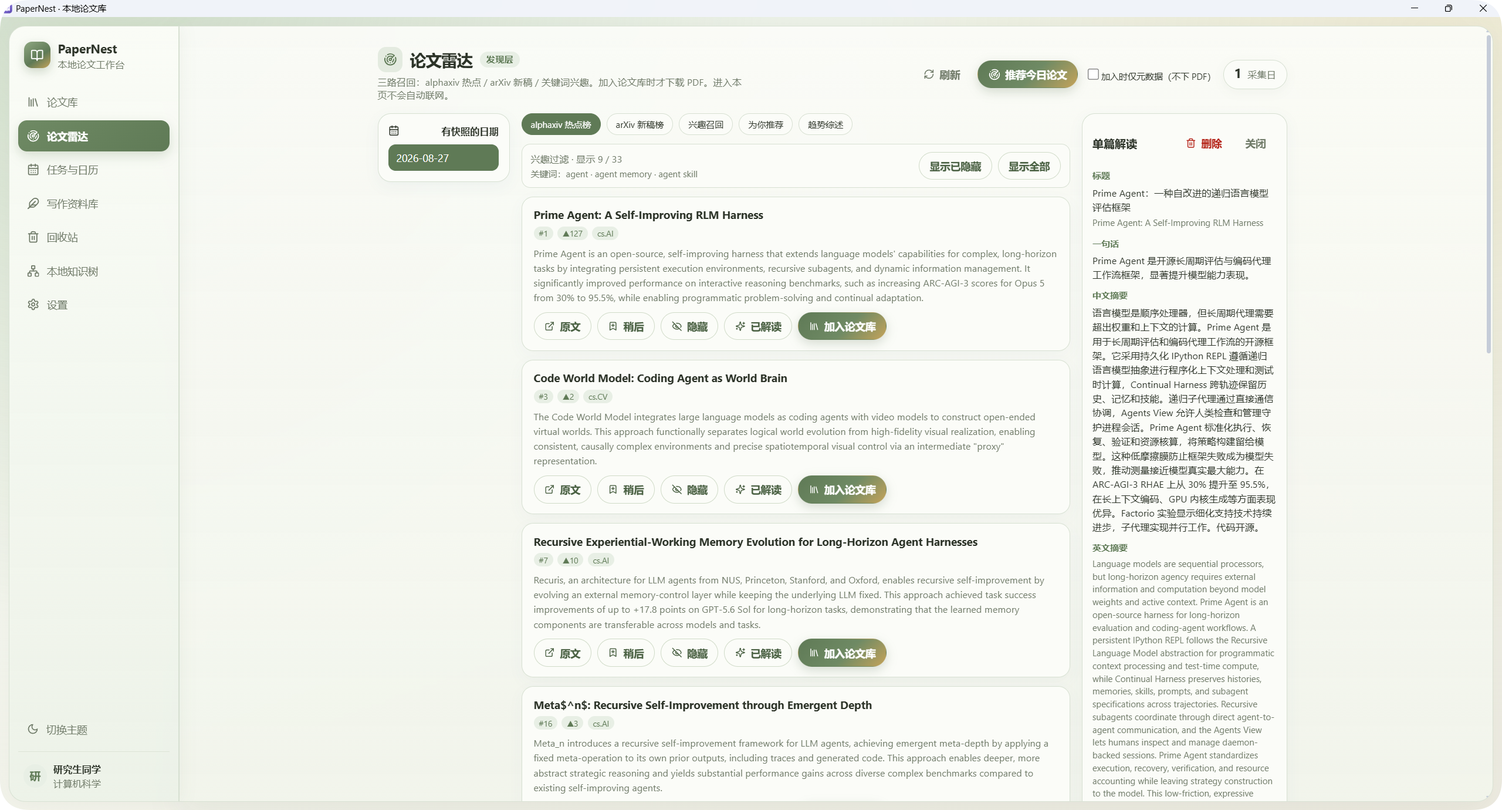
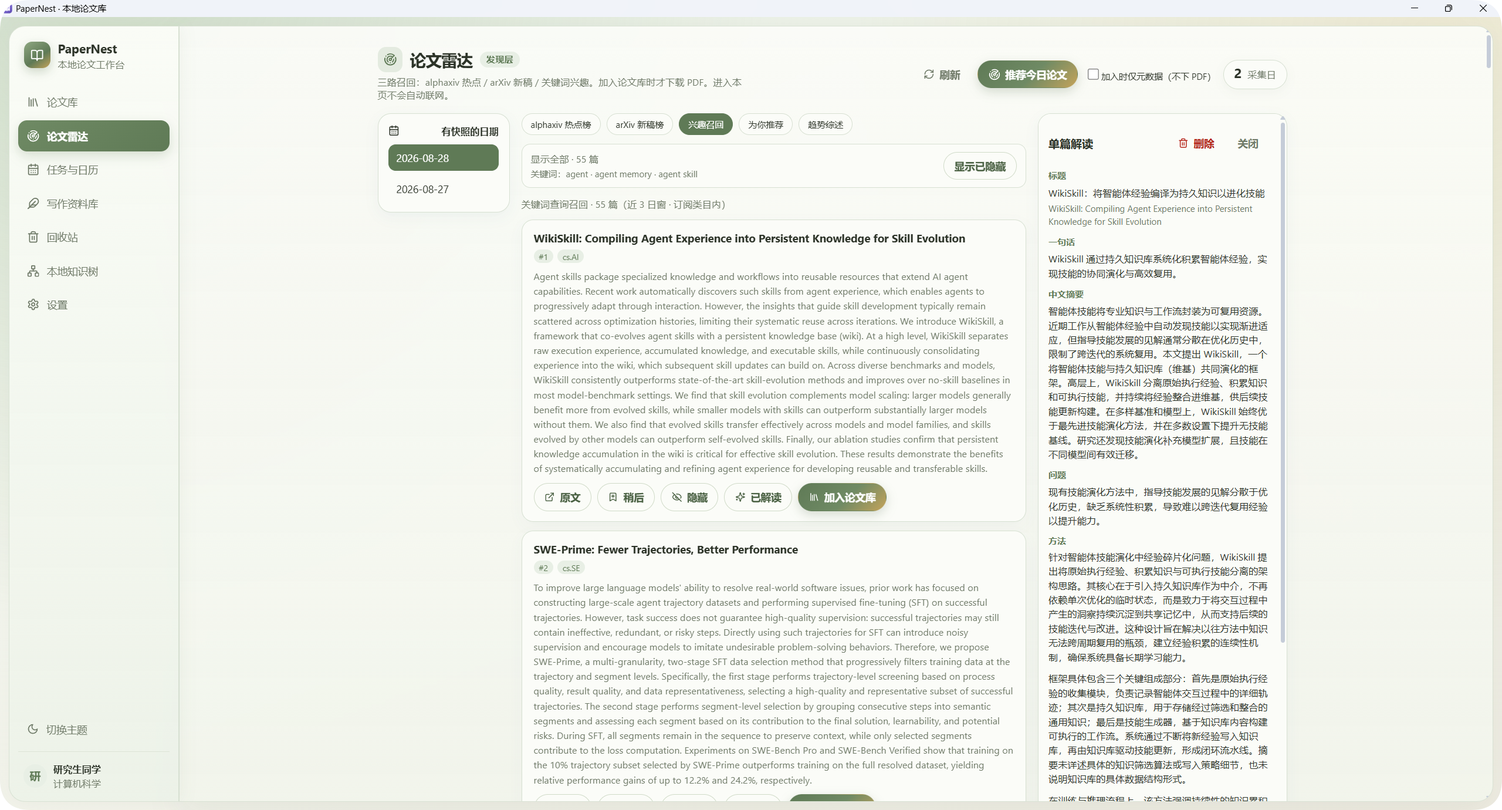
发布 0.2.12：论文雷达解读增强、文档与截图更新。
- 单篇解读：方法 3 段详析、侧栏 sticky、并发解读与缓存管理。

- 文档去除防御性表述；README 同步论文雷达截图（009-1～009-5）。

diff --git a/src/components/LlmSettingsForm.tsx b/src/components/LlmSettingsForm.tsx
@@ -81,7 +81,7 @@ export function LlmSettingsForm() {
       const saved = saveTranslationEndpoint(ltEndpoint);
       setLtEndpoint(saved);
       setLtConfigured(true);
-      setNotice("LibreTranslate 地址已保存。收录时优先用 LLM；仅当 LLM 不可用时才走本地翻译。");
+      setNotice("LibreTranslate 地址已保存。阅读台收录可走本地翻译。");
     } catch (error) { setNotice(error instanceof Error ? error.message : String(error)); }
   };
   const clearLt = () => {
@@ -91,23 +91,22 @@ export function LlmSettingsForm() {
     setNotice("已清除 LibreTranslate 配置。");
   };
 
-  return <section className="settings-form llm-settings"><h2><Sparkles size={19} />LLM 自动整理</h2><p className="settings-description">支持 OpenAI 兼容的 Chat Completions 接口。导入新 PDF 时，应用先做本地文本提取，再将论文内容和最多 3 张候选框架图页发送到你配置的模型。阅读台收录术语/写作句时，有 API Key 则优先用 LLM 做学术翻译。</p>
+  return <section className="settings-form llm-settings"><h2><Sparkles size={19} />LLM 自动整理</h2><p className="settings-description">支持 OpenAI 兼容的 Chat Completions 接口。导入新 PDF 时，应用先做本地文本提取，再将论文内容和最多 3 张候选框架图页发送到你配置的模型。阅读台收录术语/写作句时，配置 API Key 后走 LLM 学术翻译。</p>
     <label>API 基础地址<input value={value.baseUrl} onChange={e => setValue(v => v && { ...v, baseUrl: e.target.value })} placeholder="https://api.openai.com/v1" /></label>
     <label>模型名称<input value={value.model} onChange={e => setValue(v => v && { ...v, model: e.target.value })} placeholder="例如 gpt-4.1-mini / 自建模型名" /></label>
     <label>Embeddings 模型（可选；云端 API 名或本地 `local:bge-small-en-v1.5`）<input value={value.embeddingModel ?? ""} onChange={e => setValue(v => v && { ...v, embeddingModel: e.target.value })} placeholder="云端如 text-embedding-3-small；本地请点下方安装按钮" /></label>
-    <label><KeyRound size={15} />API Key {value.apiKeySaved ? <small className="key-saved">已保存（留空则不覆盖）</small> : <small>未保存</small>}<input type="password" autoComplete="off" value={apiKey} onChange={e => setApiKey(e.target.value)} placeholder="仅保存在 Windows Credential Manager" /></label>
-    <label className="checkbox-setting"><input type="checkbox" checked={value.autoAnalyzeOnImport} onChange={e => setValue(v => v && { ...v, autoAnalyzeOnImport: e.target.checked })} />导入 PDF / 雷达入库后自动用 LLM 整理（雷达路径仅填空，不覆盖已有中文摘要）</label>
-    <label className="checkbox-setting"><input type="checkbox" checked={value.autoClassifyOnImport} onChange={e => setValue(v => v && { ...v, autoClassifyOnImport: e.target.checked })} />导入 / 雷达入库时自动分类（主领域与子领域，仅使用设置页现有词表）</label>
+    <label><KeyRound size={15} />API Key {value.apiKeySaved ? <small className="key-saved">已保存（留空则保留已存密钥）</small> : <small>未保存</small>}<input type="password" autoComplete="off" value={apiKey} onChange={e => setApiKey(e.target.value)} placeholder="仅保存在 Windows Credential Manager" /></label>
+    <label className="checkbox-setting"><input type="checkbox" checked={value.autoAnalyzeOnImport} onChange={e => setValue(v => v && { ...v, autoAnalyzeOnImport: e.target.checked })} />导入 PDF / 雷达入库后自动用 LLM 整理元数据与术语</label>
+    <label className="checkbox-setting"><input type="checkbox" checked={value.autoClassifyOnImport} onChange={e => setValue(v => v && { ...v, autoClassifyOnImport: e.target.checked })} />导入 / 雷达入库时按设置页词表自动分类（主领域与子领域）</label>
     <label>分类严格度<select value={value.taxonomyStrictness} onChange={e => setValue(v => v && { ...v, taxonomyStrictness: e.target.value as LlmSettings["taxonomyStrictness"] })}><option value="strict">严格（仅核心标签，最多 3 个）</option><option value="standard">标准（核心+相关，最多 4 个）</option><option value="relaxed">宽松（最多 6 个）</option></select></label>
     <label className="checkbox-setting"><input type="checkbox" checked={value.visionEnabled} onChange={e => setValue(v => v && { ...v, visionEnabled: e.target.checked })} />发送候选方法图页缩略图（模型需支持图片输入）</label>
     <div className="settings-actions"><button className="primary" disabled={busy} onClick={save}>{busy ? <LoaderCircle className="spin" size={16} /> : <Save size={16} />}保存 LLM 设置</button><button className="secondary" disabled={busy} onClick={test}><TestTube2 size={16} />测试连接</button></div>
-    <div className="info-card"><KeyRound size={18} /><div><strong>密钥不进入资料库</strong><p>SQLite、备份、诊断日志和前端 JavaScript 均不会保存或读取 API Key。关闭“自动整理”后，导入不发起网络请求。</p></div></div>
+    <div className="info-card"><KeyRound size={18} /><div><strong>密钥保存在 Credential Manager</strong><p>API Key 写入 Windows Credential Manager，SQLite、备份与前端代码均不保存密钥。开启「自动整理」后，导入会调用 LLM。</p></div></div>
 
     <h2 style={{ marginTop: 28 }}><HardDrive size={19} style={{ verticalAlign: "-3px", marginRight: 6 }} />本地向量模型（论文雷达）</h2>
     <p className="settings-description">
       <a href="https://huggingface.co/allenai/scibert_scivocab_uncased" target="_blank" rel="noreferrer">allenai/scibert_scivocab_uncased</a>
-      {" "}是科学文本语言模型（MLM），不能当作 OpenAI Embeddings API 的模型名，也不适合直接做兴趣短语语义匹配。
-      本地改用学术友好的句子向量模型{" "}
+      SciBERT 是科学文本语言模型（MLM）。论文雷达本地语义重排推荐句子向量模型{" "}
       <a href={localEmbed?.hfUrl || "https://huggingface.co/BAAI/bge-small-en-v1.5"} target="_blank" rel="noreferrer">{localEmbed?.displayName || "BAAI/bge-small-en-v1.5"}</a>
       （约 130MB，&lt;2GB）。首次点击将下载到软件目录 <code>models/bge-small-en-v1.5</code>。论文对论文检索可再考虑{" "}
       <a href="https://huggingface.co/sentence-transformers/allenai-specter" target="_blank" rel="noreferrer">SPECTER</a>
@@ -117,7 +116,7 @@ export function LlmSettingsForm() {
     <div className="info-card">
       <HardDrive size={18} />
       <div>
-        <strong>{usingLocal ? "当前：本地向量已启用" : localEmbed?.installed ? "模型文件已在本地，尚未写入 Embeddings 字段" : "尚未安装本地向量模型"}</strong>
+        <strong>{usingLocal ? "当前：本地向量已启用" : localEmbed?.installed ? "模型文件已在本地，待写入 Embeddings 字段" : "待安装本地向量模型"}</strong>
         <p>
           {localEmbed
             ? `目录：${localEmbed.cacheDir || "（安装后显示）"} · ${localEmbed.approxSizeHint}${localEmbed.installed ? " · 已检测到 ONNX" : ""}`
@@ -132,8 +131,8 @@ export function LlmSettingsForm() {
       </button>
     </div>
 
-    <h2 style={{ marginTop: 28 }}>LibreTranslate（可选弱回退）</h2>
-    <p className="settings-description">学术翻译默认走上方 LLM。本地 LibreTranslate 仅在未配置/调用 LLM 失败时使用。请先运行 <code>scripts/start-libretranslate.cmd</code>，地址可填 <code>http://127.0.0.1:5000</code>（会自动补全 <code>/translate</code>）。</p>
+    <h2 style={{ marginTop: 28 }}>LibreTranslate（可选本地翻译）</h2>
+    <p className="settings-description">配置本地 LibreTranslate 后，阅读台收录与摘要翻译可离线使用。请先运行 <code>scripts/start-libretranslate.cmd</code>，地址可填 <code>http://127.0.0.1:5000</code>（会自动补全 <code>/translate</code>）。</p>
     <label>服务地址<input value={ltEndpoint} onChange={e => setLtEndpoint(e.target.value)} placeholder={DEFAULT_LIBRETRANSLATE_ENDPOINT} /></label>
     <p className="settings-description">{ltConfigured ? `当前已配置：${getTranslationEndpoint()}` : "尚未配置本地翻译地址。"}</p>
     <div className="settings-actions"><button type="button" className="secondary" onClick={saveLt}><Save size={16} />保存翻译地址</button><button type="button" className="ghost" onClick={clearLt}>清除</button></div>

diff --git a/src/components/SettingsView.tsx b/src/components/SettingsView.tsx
@@ -25,8 +25,8 @@ export function SettingsView() {
     {section === "radar" && <RadarSettingsForm />}
     {section === "customFields" && <CustomFieldsSettingsForm />}
     {section === "taxonomy" && <TaxonomyManager categories={data.categories} tags={data.tags} saveCategory={saveCategory} saveTag={saveTag} mergeTaxonomy={mergeTaxonomy} />}
-    {section === "data" && <><h2><Database size={19} />本地资料库</h2><p className="settings-description">数据库、PDF、框架图和批注均保存在以下目录。首次启动默认放在软件安装目录下的 PaperNestLibrary；若你已迁移过位置，则使用最新设定。</p><div className="path-box"><HardDrive size={18} /><code>{data.libraryPath}</code></div>{data.libraryNotice && <p className="inline-notice" role="status">{data.libraryNotice}</p>}<div className="relocation-note"><strong>资料库位置</strong><p>选择一个目标文件夹后，应用会完整复制资料库并在下次启动切换；旧副本会保留。</p><button className="secondary" onClick={async () => { if (!isTauri()) { setNotice("浏览器预览模式不能迁移资料库"); return; } if (!confirm("将复制当前资料库到所选文件夹，并在下次启动切换。旧副本不会删除，继续吗？")) return; try { const next = await backend.chooseLibraryLocation(); if (next) setNotice("资料库已复制到：" + next + "。请关闭并重新打开应用以切换。"); } catch (error) { setNotice(`迁移资料库失败：${error instanceof Error ? error.message : String(error)}`); } }}>选择新的资料库位置</button></div><div className="settings-actions"><button className="primary" onClick={async () => { try { const path = await backend.backup(); setNotice(path ? `备份已创建：${path}` : "浏览器预览模式不创建 ZIP 备份"); } catch (error) { setNotice(`创建备份失败：${error instanceof Error ? error.message : String(error)}`); } }}><Archive size={16} />创建完整备份</button><button className="secondary" onClick={async () => { try { if (await backend.restore()) { await refresh(); setNotice("备份恢复完成"); } } catch (error) { setNotice(`恢复备份失败：${error instanceof Error ? error.message : String(error)}`); } }}><RotateCcw size={16} />从备份恢复</button></div><div className="info-card"><Save size={18} /><div><strong>自动保存已开启</strong><p>论文字段和批注会立即写入 SQLite；原始 PDF 永不被覆写。</p></div></div></>}
-    {section === "privacy" && <><h2><ShieldCheck size={19} />隐私与安全</h2><div className="privacy-grid"><article><Laptop /><strong>单机单用户</strong><p>不需要账号，不连接云同步服务。</p></article><article><LockKeyhole /><strong>最小文件权限</strong><p>桌面端只访问受管资料目录和你明确选择的文件。</p></article><article><Download /><strong>默认离线</strong><p>关闭在线元数据与论文雷达时，应用不会向外网发起请求；雷达仅在你点击「推荐今日论文」时采集元数据。</p></article></div><p className="warning-note">V1 不提供数据库或备份加密。Windows 用户账户权限是默认访问边界。</p></>}
+    {section === "data" && <><h2><Database size={19} />本地资料库</h2><p className="settings-description">数据库、PDF、框架图和批注均保存在以下目录。首次启动默认放在软件安装目录下的 PaperNestLibrary；若你已迁移过位置，则使用最新设定。</p><div className="path-box"><HardDrive size={18} /><code>{data.libraryPath}</code></div>{data.libraryNotice && <p className="inline-notice" role="status">{data.libraryNotice}</p>}<div className="relocation-note"><strong>资料库位置</strong><p>选择一个目标文件夹后，应用会完整复制资料库并在下次启动切换；旧副本会保留。</p><button className="secondary" onClick={async () => { if (!isTauri()) { setNotice("浏览器预览模式不能迁移资料库"); return; } if (!confirm("将复制当前资料库到所选文件夹，并在下次启动切换。旧副本保留，继续吗？")) return; try { const next = await backend.chooseLibraryLocation(); if (next) setNotice("资料库已复制到：" + next + "。请关闭并重新打开应用以切换。"); } catch (error) { setNotice(`迁移资料库失败：${error instanceof Error ? error.message : String(error)}`); } }}>选择新的资料库位置</button></div><div className="settings-actions"><button className="primary" onClick={async () => { try { const path = await backend.backup(); setNotice(path ? `备份已创建：${path}` : "浏览器预览模式不创建 ZIP 备份"); } catch (error) { setNotice(`创建备份失败：${error instanceof Error ? error.message : String(error)}`); } }}><Archive size={16} />创建完整备份</button><button className="secondary" onClick={async () => { try { if (await backend.restore()) { await refresh(); setNotice("备份恢复完成"); } } catch (error) { setNotice(`恢复备份失败：${error instanceof Error ? error.message : String(error)}`); } }}><RotateCcw size={16} />从备份恢复</button></div><div className="info-card"><Save size={18} /><div><strong>自动保存已开启</strong><p>论文字段和批注会立即写入 SQLite；原始 PDF 永不被覆写。</p></div></div></>}
+    {section === "privacy" && <><h2><ShieldCheck size={19} />隐私与安全</h2><div className="privacy-grid"><article><Laptop /><strong>单机单用户</strong><p>纯本地使用，数据留在本机。</p></article><article><LockKeyhole /><strong>最小文件权限</strong><p>桌面端只访问受管资料目录和你明确选择的文件。</p></article><article><Download /><strong>按需联网</strong><p>在线元数据与论文雷达默认关闭；开启后，Crossref 在你手动查询时联网，雷达在你点击「推荐今日论文」时采集元数据。</p></article></div><p className="warning-note">V1 不提供数据库或备份加密。Windows 用户账户权限是默认访问边界。</p></>}
     {notice && <div className="settings-notice">{notice}</div>}
   </section></div></main>;
 }
@@ -35,7 +35,7 @@ function ProfileForm({ profile, onSave }: { profile: Profile; onSave(value: Prof
   const [value, setValue] = useState(profile);
   return <form className="settings-form" onSubmit={e => { e.preventDefault(); void onSave(value); }}>
     <h2><UserRound size={19} />个人资料</h2>
-    <p className="settings-description">仅用于本机界面展示，不会上传。</p>
+    <p className="settings-description">保存在本机，用于界面展示个人偏好。</p>
     <label>显示名<input value={value.displayName} onChange={e => setValue(v => ({ ...v, displayName: e.target.value }))} /></label>
     <label>研究方向<input value={value.researchField} onChange={e => setValue(v => ({ ...v, researchField: e.target.value }))} placeholder="例如：计算机视觉 / 推荐系统" /></label>
     <label><span className="settings-label-row"><Palette size={15} />主题</span><select value={appearanceFromProfile(value)} onChange={e => setValue(v => applyAppearance(v, e.target.value as AppearanceId))}>{APPEARANCE_OPTIONS.map(option => <option key={option.id} value={option.id}>{option.label}</option>)}</select></label>

diff --git a/src/components/RadarView.tsx b/src/components/RadarView.tsx
@@ -227,7 +227,7 @@ export function RadarView({ onImported }: { onImported?(paperId: string): void }
       return;
     }
     if (exclusiveBusy) {
-      flashNotice("采集/入库/综述进行中，请稍后再发起新解读。已缓存解读仍可点开。");
+      flashNotice("采集/入库/综述进行中，请稍后再发起新解读。");
       return;
     }
     if (radarExplaining[card.arxivId]) {
@@ -267,7 +267,7 @@ export function RadarView({ onImported }: { onImported?(paperId: string): void }
         next.delete(id);
         return next;
       });
-      flashNotice("已删除解读缓存，可重新点「解读」生成。");
+      flashNotice("已删除解读。");
     } catch (error) {
       flashNotice(error instanceof Error ? error.message : String(error));
     }
@@ -387,7 +387,7 @@ export function RadarView({ onImported }: { onImported?(paperId: string): void }
   }
 
   if (!settings.enabled) {
-    return <main className="content-page radar-page"><header className="page-heading"><div className="page-title-block"><div className="page-title-row"><span className="page-title-icon"><RadarIcon size={18} /></span><h1>论文雷达</h1><span className="page-kicker">发现层</span></div><p>尚未启用。请到「设置 → 论文雷达」打开开关后再回来点击推荐。</p></div></header></main>;
+    return <main className="content-page radar-page"><header className="page-heading"><div className="page-title-block"><div className="page-title-row"><span className="page-title-icon"><RadarIcon size={18} /></span><h1>论文雷达</h1><span className="page-kicker">发现层</span></div><p>请到「设置 → 论文雷达」启用后，点击「推荐今日论文」开始采集。</p></div></header></main>;
   }
 
   return (
@@ -395,10 +395,10 @@ export function RadarView({ onImported }: { onImported?(paperId: string): void }
       <header className="page-heading">
         <div className="page-title-block">
           <div className="page-title-row"><span className="page-title-icon"><RadarIcon size={18} /></span><h1>论文雷达</h1><span className="page-kicker">发现层</span></div>
-          <p>三路召回：alphaxiv 热点 / arXiv 新稿 / 关键词兴趣。加入论文库时才下载 PDF。进入本页不会自动联网。</p>
+    <p>三路召回：alphaxiv 热点 / arXiv 新稿 / 关键词兴趣。加入论文库时下载 PDF。本页默认只读本地快照，点击「推荐今日论文」才联网采集。</p>
         </div>
         <div className="page-heading-actions">
-          <button type="button" className="ghost" disabled={refreshing || !!exclusiveBusy} onClick={() => void refreshRadarView()} title="重新加载当前榜单（不联网采集）">
+          <button type="button" className="ghost" disabled={refreshing || !!exclusiveBusy} onClick={() => void refreshRadarView()} title="重新加载当前榜单（本地快照）">
             <RefreshCw size={15} className={refreshing ? "spin" : undefined} />刷新
           </button>
           <button type="button" className="primary" disabled={!!exclusiveBusy} onClick={() => void fetchToday()}>
@@ -407,7 +407,7 @@ export function RadarView({ onImported }: { onImported?(paperId: string): void }
           </button>
           <label className="checkbox-setting radar-import-option">
             <input type="checkbox" checked={metadataOnly} onChange={event => setMetadataOnly(event.target.checked)} />
-            加入时仅元数据（不下 PDF）
+            加入时只入库元数据
           </label>
           <div className="stat-card"><strong>{dates.length}</strong><small>采集日</small></div>
         </div>
@@ -542,7 +542,7 @@ export function RadarView({ onImported }: { onImported?(paperId: string): void }
             <header>
               <h3>单篇解读</h3>
               <div className="radar-explain-actions">
-                <button type="button" className="ghost danger" onClick={() => void deleteExplanation()} title="删除本地解读缓存">
+                <button type="button" className="ghost danger" onClick={() => void deleteExplanation()} title="删除解读">
                   <Trash2 size={14} />删除
                 </button>
                 <button type="button" className="ghost" onClick={() => setExplain(undefined)}>关闭</button>
@@ -557,12 +557,17 @@ export function RadarView({ onImported }: { onImported?(paperId: string): void }
             )}
             {explain.summaryZh && <p><strong>一句话</strong>{explain.summaryZh}</p>}
             {explain.abstractZh && <p><strong>中文摘要</strong>{explain.abstractZh}</p>}
-            {explain.abstractEn && <p><strong>英文摘要</strong><span className="radar-explain-en">{explain.abstractEn}</span></p>}
             <p><strong>问题</strong>{explain.problem}</p>
-            <p><strong>方法</strong>{explain.method}</p>
+            <div className="radar-explain-method">
+              <strong>方法</strong>
+              {explain.method
+                .split(/\n{2,}/)
+                .map(part => part.trim())
+                .filter(Boolean)
+                .map((para, index) => <p key={index}>{para}</p>)}
+            </div>
             <p><strong>结论</strong>{explain.finding}</p>
             <p><strong>亮点</strong>{explain.highlight}</p>
-            <p className="radar-explain-hint">已缓存。删除后可重新解读；入库时可再做 LLM 整理补术语与分类。</p>
           </aside>
         )}
       </div>

diff --git a/src/components/KnowledgeTree.tsx b/src/components/KnowledgeTree.tsx
@@ -18,5 +18,5 @@ export function KnowledgeTree({ onOpenPaper }: { onOpenPaper(paper: Paper): void
     const edges: Edge[] = []; for (let from = 0; from < papers.length; from++) for (let to = from + 1; to < papers.length; to++) { const left = papers[from]; const right = papers[to]; const sharedTags = left.tagIds.filter(id => right.tagIds.includes(id)).length; const score = Math.min(.55, sharedTags * .24) + (left.categoryId && left.categoryId === right.categoryId ? .14 : 0) + overlap(wordSets[from], wordSets[to]) * .42; if (score >= threshold) edges.push({ from, to, score }); }
     return { nodes, edges: edges.sort((a, b) => b.score - a.score).slice(0, 700) };
   }, [data, query, threshold]);
-  return <main className="knowledge-page"><header className="page-heading"><div><div className="eyebrow"><Network size={14} />LOCAL KNOWLEDGE TREE</div><h1>本地论文知识树</h1><p>根据已入库论文的标签、主领域和标题/摘要文本相似度建立关系；不联网，也不代表引用关系。</p></div></header><div className="knowledge-tools"><label><Search size={15} /><input value={query} onChange={event => setQuery(event.target.value)} placeholder="筛选论文" /></label><label>关系阈值 <input type="range" min="0.12" max="0.62" step="0.02" value={threshold} onChange={event => setThreshold(Number(event.target.value))} /><strong>{Math.round(threshold * 100)}%</strong></label><small>显示 {graph.nodes.length} 篇论文 / {graph.edges.length} 条关联（上限 300 篇、700 条）</small></div><section className="knowledge-canvas"><svg viewBox="0 0 1000 650" role="img" aria-label="本地论文知识关系图">{graph.edges.map((edge, index) => <line key={index} x1={graph.nodes[edge.from].x} y1={graph.nodes[edge.from].y} x2={graph.nodes[edge.to].x} y2={graph.nodes[edge.to].y} style={{ strokeWidth: 1 + edge.score * 3, opacity: .16 + edge.score * .55 }} />)}{graph.nodes.map(node => <g className="knowledge-node" key={node.paper.id} transform={"translate(" + node.x + " " + node.y + ")"} onClick={() => onOpenPaper(node.paper)}><circle r="19" fill={node.color} /><text y="37">{(node.paper.titleZh || node.paper.titleEn).slice(0, 22)}</text><title>{node.paper.titleZh || node.paper.titleEn}</title></g>)}</svg>{!graph.nodes.length && <div className="knowledge-empty">尚无可显示的论文。导入论文并添加领域或标签后，这里会自动形成关联。</div>}</section></main>;
+  return <main className="knowledge-page"><header className="page-heading"><div><div className="eyebrow"><Network size={14} />LOCAL KNOWLEDGE TREE</div><h1>本地论文知识树</h1><p>根据已入库论文的标签、主领域和标题/摘要文本相似度建立本地关联；边表示主题相近，不代表引用关系。</p></div></header><div className="knowledge-tools"><label><Search size={15} /><input value={query} onChange={event => setQuery(event.target.value)} placeholder="筛选论文" /></label><label>关系阈值 <input type="range" min="0.12" max="0.62" step="0.02" value={threshold} onChange={event => setThreshold(Number(event.target.value))} /><strong>{Math.round(threshold * 100)}%</strong></label><small>显示 {graph.nodes.length} 篇论文 / {graph.edges.length} 条关联（上限 300 篇、700 条）</small></div><section className="knowledge-canvas"><svg viewBox="0 0 1000 650" role="img" aria-label="本地论文知识关系图">{graph.edges.map((edge, index) => <line key={index} x1={graph.nodes[edge.from].x} y1={graph.nodes[edge.from].y} x2={graph.nodes[edge.to].x} y2={graph.nodes[edge.to].y} style={{ strokeWidth: 1 + edge.score * 3, opacity: .16 + edge.score * .55 }} />)}{graph.nodes.map(node => <g className="knowledge-node" key={node.paper.id} transform={"translate(" + node.x + " " + node.y + ")"} onClick={() => onOpenPaper(node.paper)}><circle r="19" fill={node.color} /><text y="37">{(node.paper.titleZh || node.paper.titleEn).slice(0, 22)}</text><title>{node.paper.titleZh || node.paper.titleEn}</title></g>)}</svg>{!graph.nodes.length && <div className="knowledge-empty">尚无可显示的论文。导入论文并添加领域或标签后，这里会自动形成关联。</div>}</section></main>;
 }

diff --git a/src/styles.css b/src/styles.css
@@ -810,8 +810,19 @@ button.reading-heat-dot { cursor: default; }
 }
 
 .radar-page .radar-layout { max-width: 1240px; margin: 0 auto; display: grid; grid-template-columns: 180px minmax(0, 1fr); gap: 16px; align-items: start; }
-.radar-page .radar-layout:has(.radar-explain) { grid-template-columns: 180px minmax(0, 1fr) 280px; }
+.radar-page .radar-layout:has(.radar-explain) { grid-template-columns: 180px minmax(0, 1fr) 340px; }
 .radar-calendar, .radar-explain { border: 1px solid var(--line); background: var(--panel); border-radius: 18px; padding: 14px; box-shadow: 0 6px 18px rgba(40,70,120,.05); }
+.radar-explain {
+  position: sticky;
+  top: 12px;
+  align-self: start;
+  max-height: calc(100vh - 120px);
+  overflow: auto;
+}
+.radar-explain-method { margin: 0 0 10px; }
+.radar-explain-method strong { display: block; margin-bottom: 6px; color: var(--accent); font-size: 12px; }
+.radar-explain-method p { margin: 0 0 8px; font-size: 13px; line-height: 1.55; }
+.radar-explain-method p:last-child { margin-bottom: 0; }
 .radar-calendar h3, .radar-explain header { display: flex; align-items: center; justify-content: space-between; gap: 8px; margin: 0 0 10px; font-size: 13px; }
 .radar-explain-actions { display: flex; align-items: center; gap: 4px; }
 .radar-explain-actions .ghost.danger { color: #b42318; }
@@ -903,7 +914,6 @@ button.reading-heat-dot { cursor: default; }
 .radar-explain p { margin: 0 0 10px; font-size: 13px; line-height: 1.5; }
 .radar-explain strong { display: block; margin-bottom: 4px; color: var(--accent); font-size: 12px; }
 .radar-explain-en { display: block; margin-top: 4px; color: var(--muted); font-size: 12px; line-height: 1.45; }
-.radar-explain-hint { color: var(--muted); font-size: 11px !important; }
 @media (max-width: 1100px) {
   .radar-page .radar-layout, .radar-page .radar-layout:has(.radar-explain) { grid-template-columns: 1fr; }
   .radar-week-grid, .radar-category-grid, .radar-limit-row { grid-template-columns: 1fr; }

diff --git a/src/lib/radarImportLlm.ts b/src/lib/radarImportLlm.ts
@@ -38,16 +38,13 @@ async function analysisTextForRadarPaper(paper: Paper): Promise<string> {
       const extracted = await extractForImport(bytes, false);
       if (extracted.text.trim().length >= 80) return extracted.text;
     } catch {
-      /* 无 PDF 文本时回退标题摘要 */
+      /* 无 PDF 文本时用标题摘要 */
     }
   }
   return liteAnalysisSeed(paper, undefined, "");
 }
 
-/**
- * 雷达新入库后：与 PDF 导入同开关跑 LLM 整理；字段仅填空，不覆盖解读缓存 / arXiv 元数据。
- * 失败由调用方展示提示，不回滚已入库论文。
- */
+/** 雷达新入库后，与 PDF 导入共用自动整理开关，向空字段写入 LLM 分析结果。 */
 export async function runRadarImportLlmFill(
   paper: Paper,
   opts: {
@@ -58,7 +55,7 @@ export async function runRadarImportLlmFill(
 ): Promise<{ paper: Paper; note: string }> {
   const text = await analysisTextForRadarPaper(paper);
   if (text.trim().length < 80) {
-    return { paper, note: "摘要过短且无可用 PDF 文本，已跳过 LLM 整理" };
+    return { paper, note: "摘要过短且无可用 PDF 文本，未执行 LLM 整理" };
   }
 
   const analysis = await analyzeWithFallback(paper, { text, candidateImages: [] });
@@ -96,7 +93,7 @@ export async function runRadarImportLlmFill(
     });
   }
 
-  const notes = ["已自动 LLM 整理（仅填空）"];
+  const notes = ["已自动 LLM 整理"];
   if (taxonomyNote) notes.push(taxonomyNote);
   return { paper: filled, note: notes.join("；") };
 }

diff --git a/src/components/TrashView.tsx b/src/components/TrashView.tsx
@@ -19,6 +19,6 @@ export function TrashView() {
       </div>
       <div className="page-heading-actions"><div className="stat-card"><strong>{papers.length}</strong><small>待处理</small></div></div>
     </header>
-    {!papers.length ? <EmptyState icon="trash" title="回收站是空的" description="删除的论文会先移动到这里，不会立即清除本地 PDF。" /> : <div className="trash-list">{papers.map(paper => <article key={paper.id}><Trash2 size={18} /><div><strong>{paper.titleZh || paper.titleEn}</strong><small>删除于 {new Date(paper.deletedAt!).toLocaleString("zh-CN")}</small></div><button className="secondary" onClick={() => void restore(paper)}><RotateCcw size={15} />恢复</button><button className="secondary danger" onClick={() => purge(paper)}><Trash2 size={15} />永久删除</button></article>)}</div>}
+    {!papers.length ? <EmptyState icon="trash" title="回收站是空的" description="删除的论文会移到这里，附件与批注保留，可随时恢复。" /> : <div className="trash-list">{papers.map(paper => <article key={paper.id}><Trash2 size={18} /><div><strong>{paper.titleZh || paper.titleEn}</strong><small>删除于 {new Date(paper.deletedAt!).toLocaleString("zh-CN")}</small></div><button className="secondary" onClick={() => void restore(paper)}><RotateCcw size={15} />恢复</button><button className="secondary danger" onClick={() => purge(paper)}><Trash2 size={15} />永久删除</button></article>)}</div>}
   </main>;
 }

diff --git a/src/components/RadarSettingsForm.tsx b/src/components/RadarSettingsForm.tsx
@@ -70,7 +70,7 @@ export function RadarSettingsForm() {
     <section className="settings-form radar-settings">
       <h2><RadarIcon size={19} />论文雷达</h2>
       <p className="settings-description">
-        默认关闭。启用后，在「论文雷达」页点击「推荐今日论文」才会联网：Hot（alphaxiv）+ New（订阅类目日窗）+ Interest（关键词查询补漏）。发现期只保存元数据；界面默认按类目与关键词过滤展示。
+        默认关闭。启用后，在「论文雷达」页点击「推荐今日论文」联网采集：Hot（alphaxiv）+ New（订阅类目日窗）+ Interest（关键词查询）。发现期只保存元数据；界面默认按类目与关键词过滤展示。
       </p>
       {!isTauri() && <p className="inline-notice">浏览器预览模式不支持论文雷达联网功能。</p>}
       <label className="checkbox-setting">
@@ -130,11 +130,11 @@ export function RadarSettingsForm() {
       <div className="info-card">
         <RadarIcon size={18} />
         <div>
-          <strong>双层启动保护</strong>
+          <strong>使用步骤</strong>
           <ol className="metadata-guide-list">
             <li>在此页启用并保存。</li>
             <li>打开侧栏「论文雷达」。</li>
-            <li>点击「推荐今日论文」后才会采集。</li>
+            <li>点击「推荐今日论文」开始采集。</li>
           </ol>
         </div>
       </div>

diff --git a/src/components/OnlineMetadataSettingsForm.tsx b/src/components/OnlineMetadataSettingsForm.tsx
@@ -33,7 +33,7 @@ export function OnlineMetadataSettingsForm() {
     <section className="settings-form online-metadata-settings">
       <h2><Globe2 size={19} />在线元数据补全</h2>
       <p className="settings-description">
-        默认关闭。启用后，在论文详情中手动点击「查找在线元数据」才会向 Crossref 查询；导入 PDF 时不会自动联网。
+        默认关闭。启用后，在论文详情手动点击「查找在线元数据」向 Crossref 查询；导入 PDF 走本地封面解析。
       </p>
       <label className="checkbox-setting">
         <input
@@ -86,7 +86,7 @@ export function OnlineMetadataSettingsForm() {
         <Globe2 size={18} />
         <div>
           <strong>联网范围</strong>
-          <p>关闭时不会发起任何 Crossref 请求。开启后也只在你点击按钮时查询；不上传 PDF、批注、术语或 LLM 密钥。查询结果会缓存在本地，避免重复请求。</p>
+          <p>关闭时保持离线。开启后在你点击按钮时查询 Crossref，只发送 DOI/标题等检索字段；查询结果缓存在本地。</p>
         </div>
       </div>
 

diff --git a/src/components/CustomFieldsSettingsForm.tsx b/src/components/CustomFieldsSettingsForm.tsx
@@ -59,7 +59,7 @@ export function CustomFieldsSettingsForm() {
   const archive = async (definition: CustomFieldDefinition) => {
     const count = data.customFieldValues.filter(item => item.fieldId === definition.id).length;
     const message = count
-      ? `归档「${definition.name}」后，${count} 篇论文上的该字段值会保留但不再显示。继续吗？`
+      ? `归档「${definition.name}」后，${count} 篇论文上的该字段值保留在资料库，界面隐藏该字段。继续吗？`
       : `归档「${definition.name}」？`;
     if (!confirm(message)) return;
     setBusy(true);

diff --git a/src/state/LibraryContext.tsx b/src/state/LibraryContext.tsx
@@ -8,7 +8,7 @@ interface LibraryContextValue {
   setImportBusy(value: string): void; setImportNotice(value: string): void;
   radarBusy: string; radarNotice: string;
   setRadarBusy(value: string): void; setRadarNotice(value: string): void;
-  /** arxivId → 短标题；多篇解读可并行，离开雷达页仍可展示进度 */
+  /** arxivId → 短标题；多篇解读可并行，全局状态展示进度 */
   radarExplaining: Record<string, string>;
   startRadarExplain(arxivId: string, title: string): void;
   finishRadarExplain(arxivId: string): void;

diff --git a/src/components/OnlineMetadataFillButton.tsx b/src/components/OnlineMetadataFillButton.tsx
@@ -66,7 +66,7 @@ export function OnlineMetadataConfirmModal({
   return (
     <Modal title="Crossref 元数据确认" onClose={onClose} wide>
       <div className="online-metadata-modal">
-        {cached && <p className="inline-notice">本次结果来自本地缓存，同一篇论文不会重复请求 Crossref。</p>}
+        {cached && <p className="inline-notice">本次结果来自本地缓存。</p>}
         {candidates.length > 1 && (
           <section className="metadata-candidate-list">
             <h3>选择候选条目</h3>
